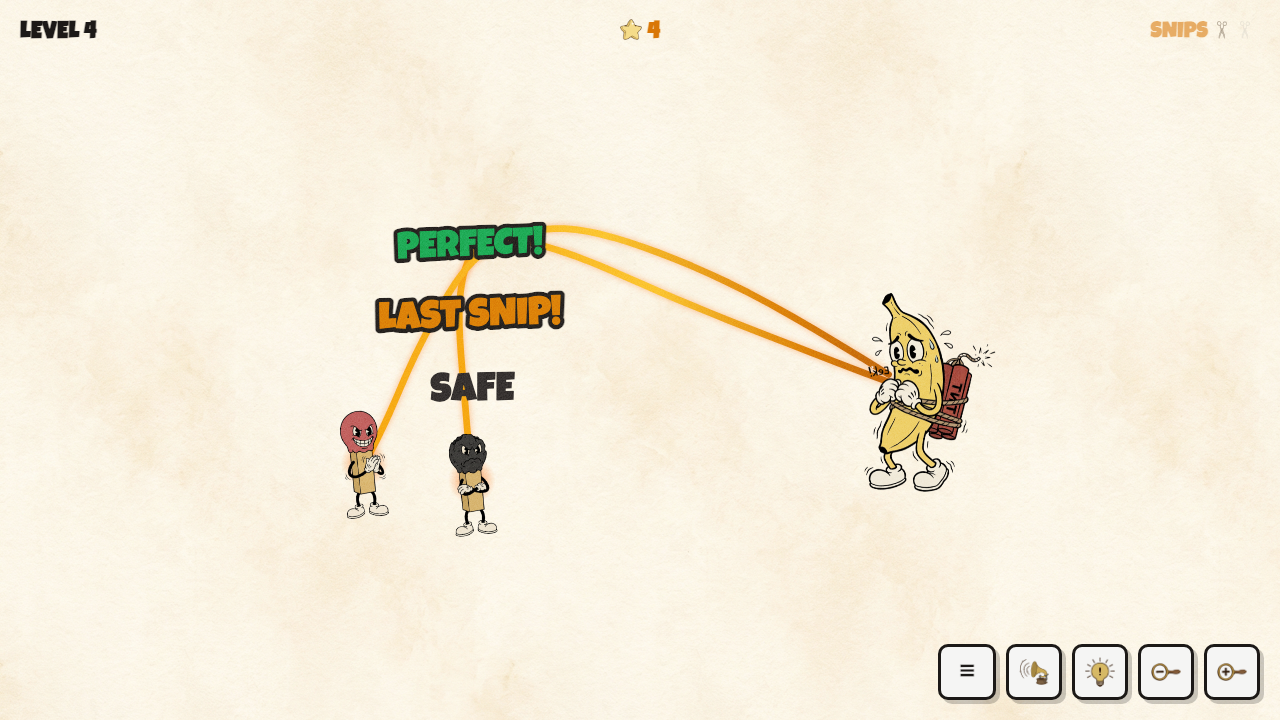
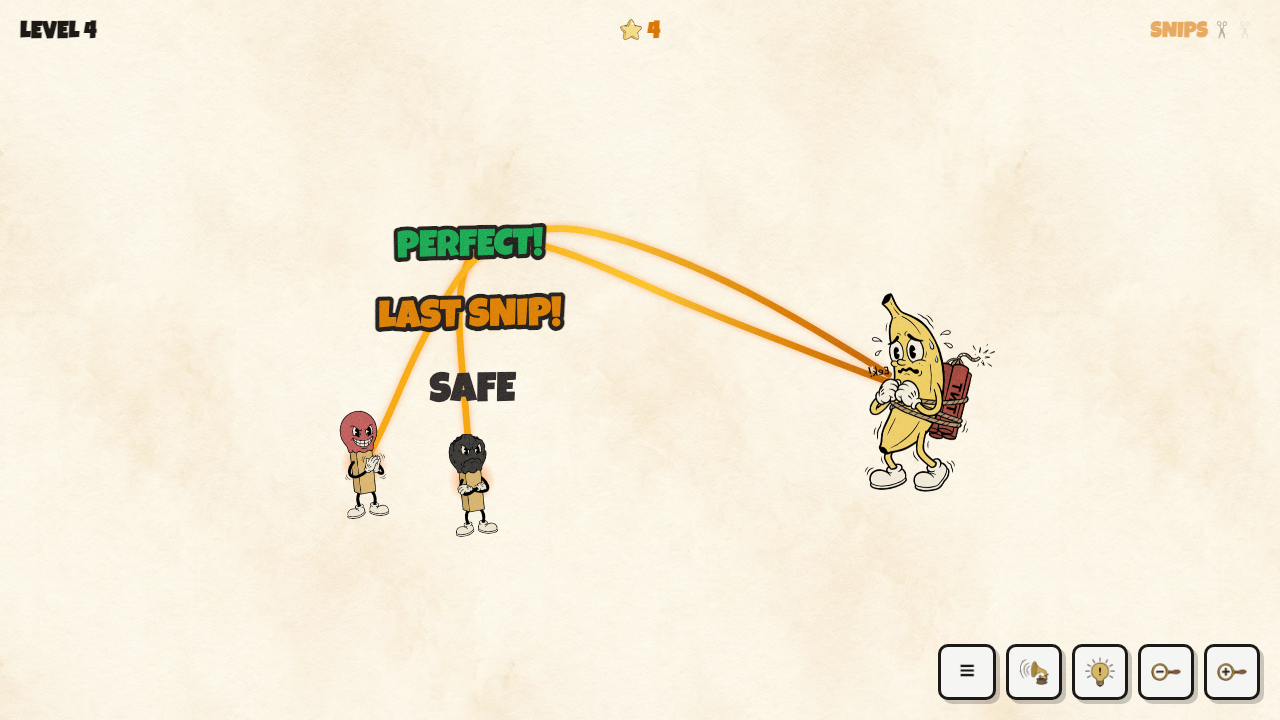
Replace the forbidden orange wire with fuchsia
Orange clashed with the amber default wire that every early level uses,
making the second forbidden color read as a cuttable wick. Fuchsia is
unmistakably distinct from amber, red, blue, purple, and green.

diff --git a/src/engine/Renderer.js b/src/engine/Renderer.js
@@ -30,7 +30,7 @@ export const COMIC_WORDS = {
 const WIRE_STOPS = {
     amber: ["#f59e0b", "#fbbf24", "#d97706", "#b45309"],
     red: ["#ef4444", "#f87171", "#dc2626", "#991b1b"],
-    orange: ["#f97316", "#fb923c", "#ea580c", "#c2410c"],
+    fuchsia: ["#e879f9", "#d946ef", "#c026d3", "#a21caf"],
     blue: ["#3b82f6", "#60a5fa", "#2563eb", "#1e40af"],
     purple: ["#c084fc", "#a855f7", "#9333ea", "#7e22ce"],
     green: ["#22c55e", "#4ade80", "#16a34a", "#15803d"],
@@ -38,14 +38,14 @@ const WIRE_STOPS = {
 /** Fill colors for the legend chips (solid, slightly darker than the live stops). */
 const WIRE_CHIP = {
     red: "#dc2626",
-    orange: "#ea580c",
+    fuchsia: "#c026d3",
     blue: "#2563eb",
     purple: "#9333ea",
     green: "#16a34a",
 };
 const WIRE_CHIP_BORDER = {
     red: "#7f1d1d",
-    orange: "#7c2d12",
+    fuchsia: "#701a75",
     blue: "#1e3a8a",
     purple: "#581c87",
     green: "#14532d",
